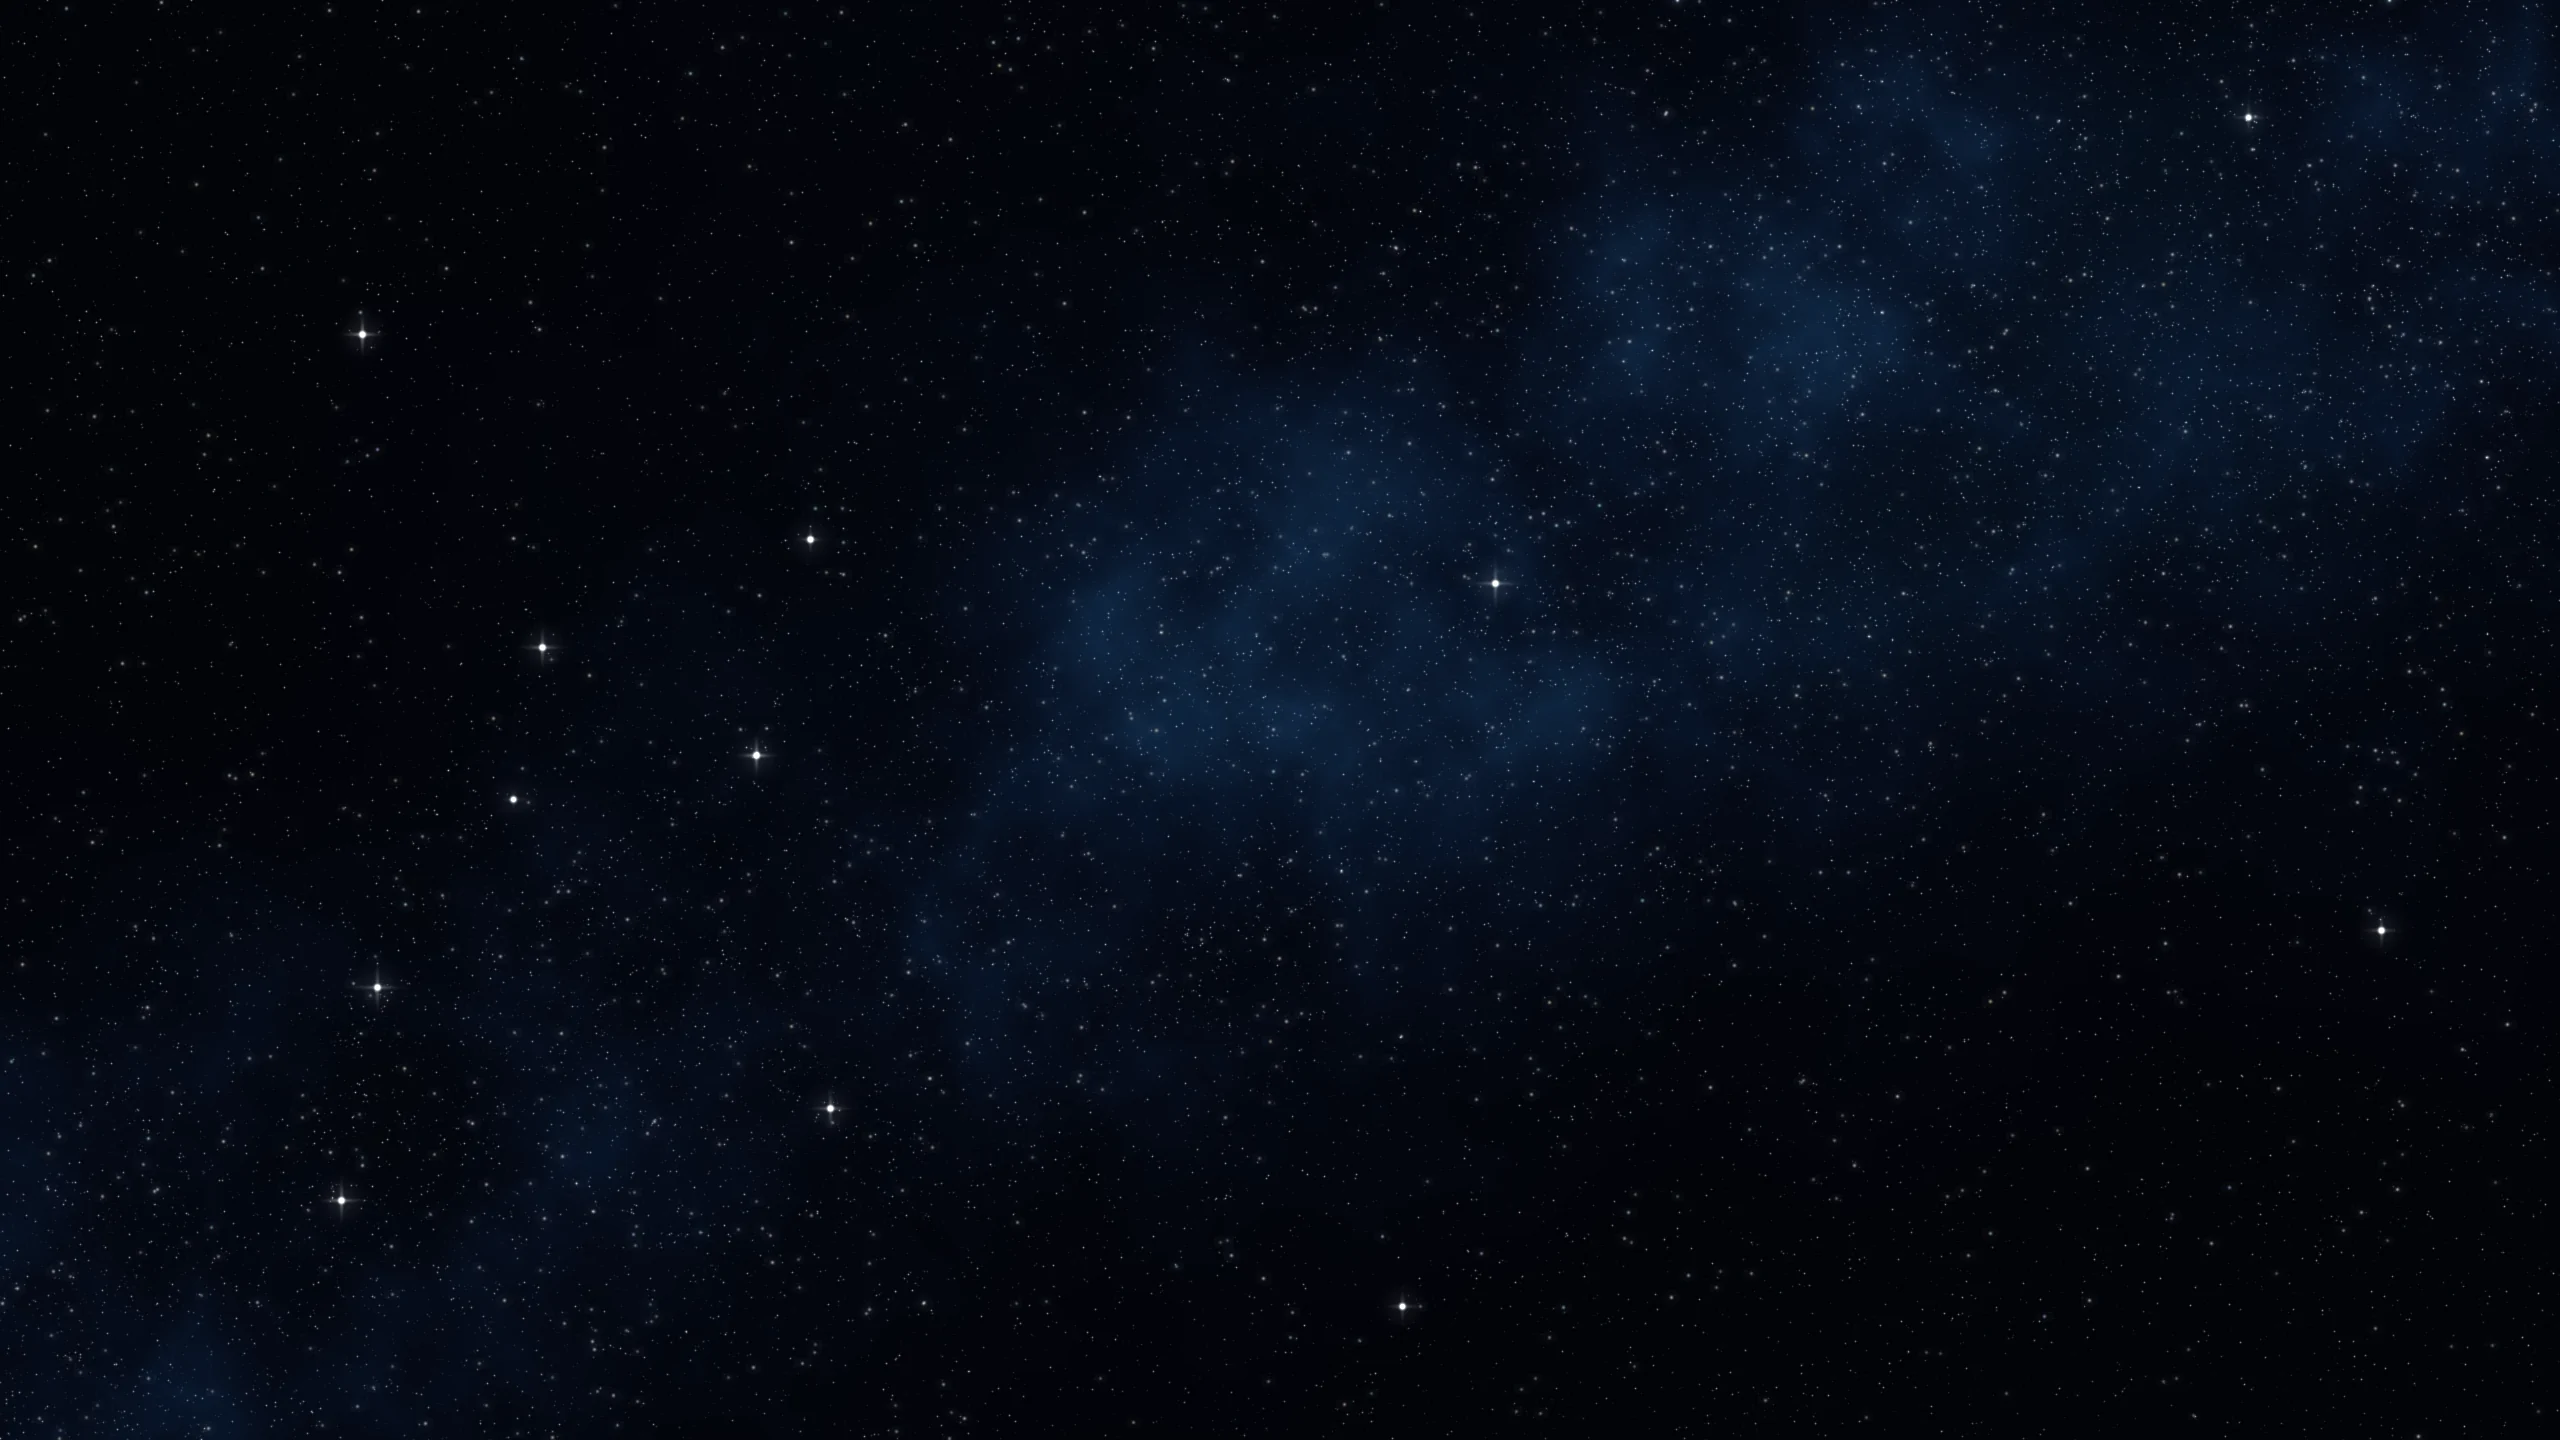
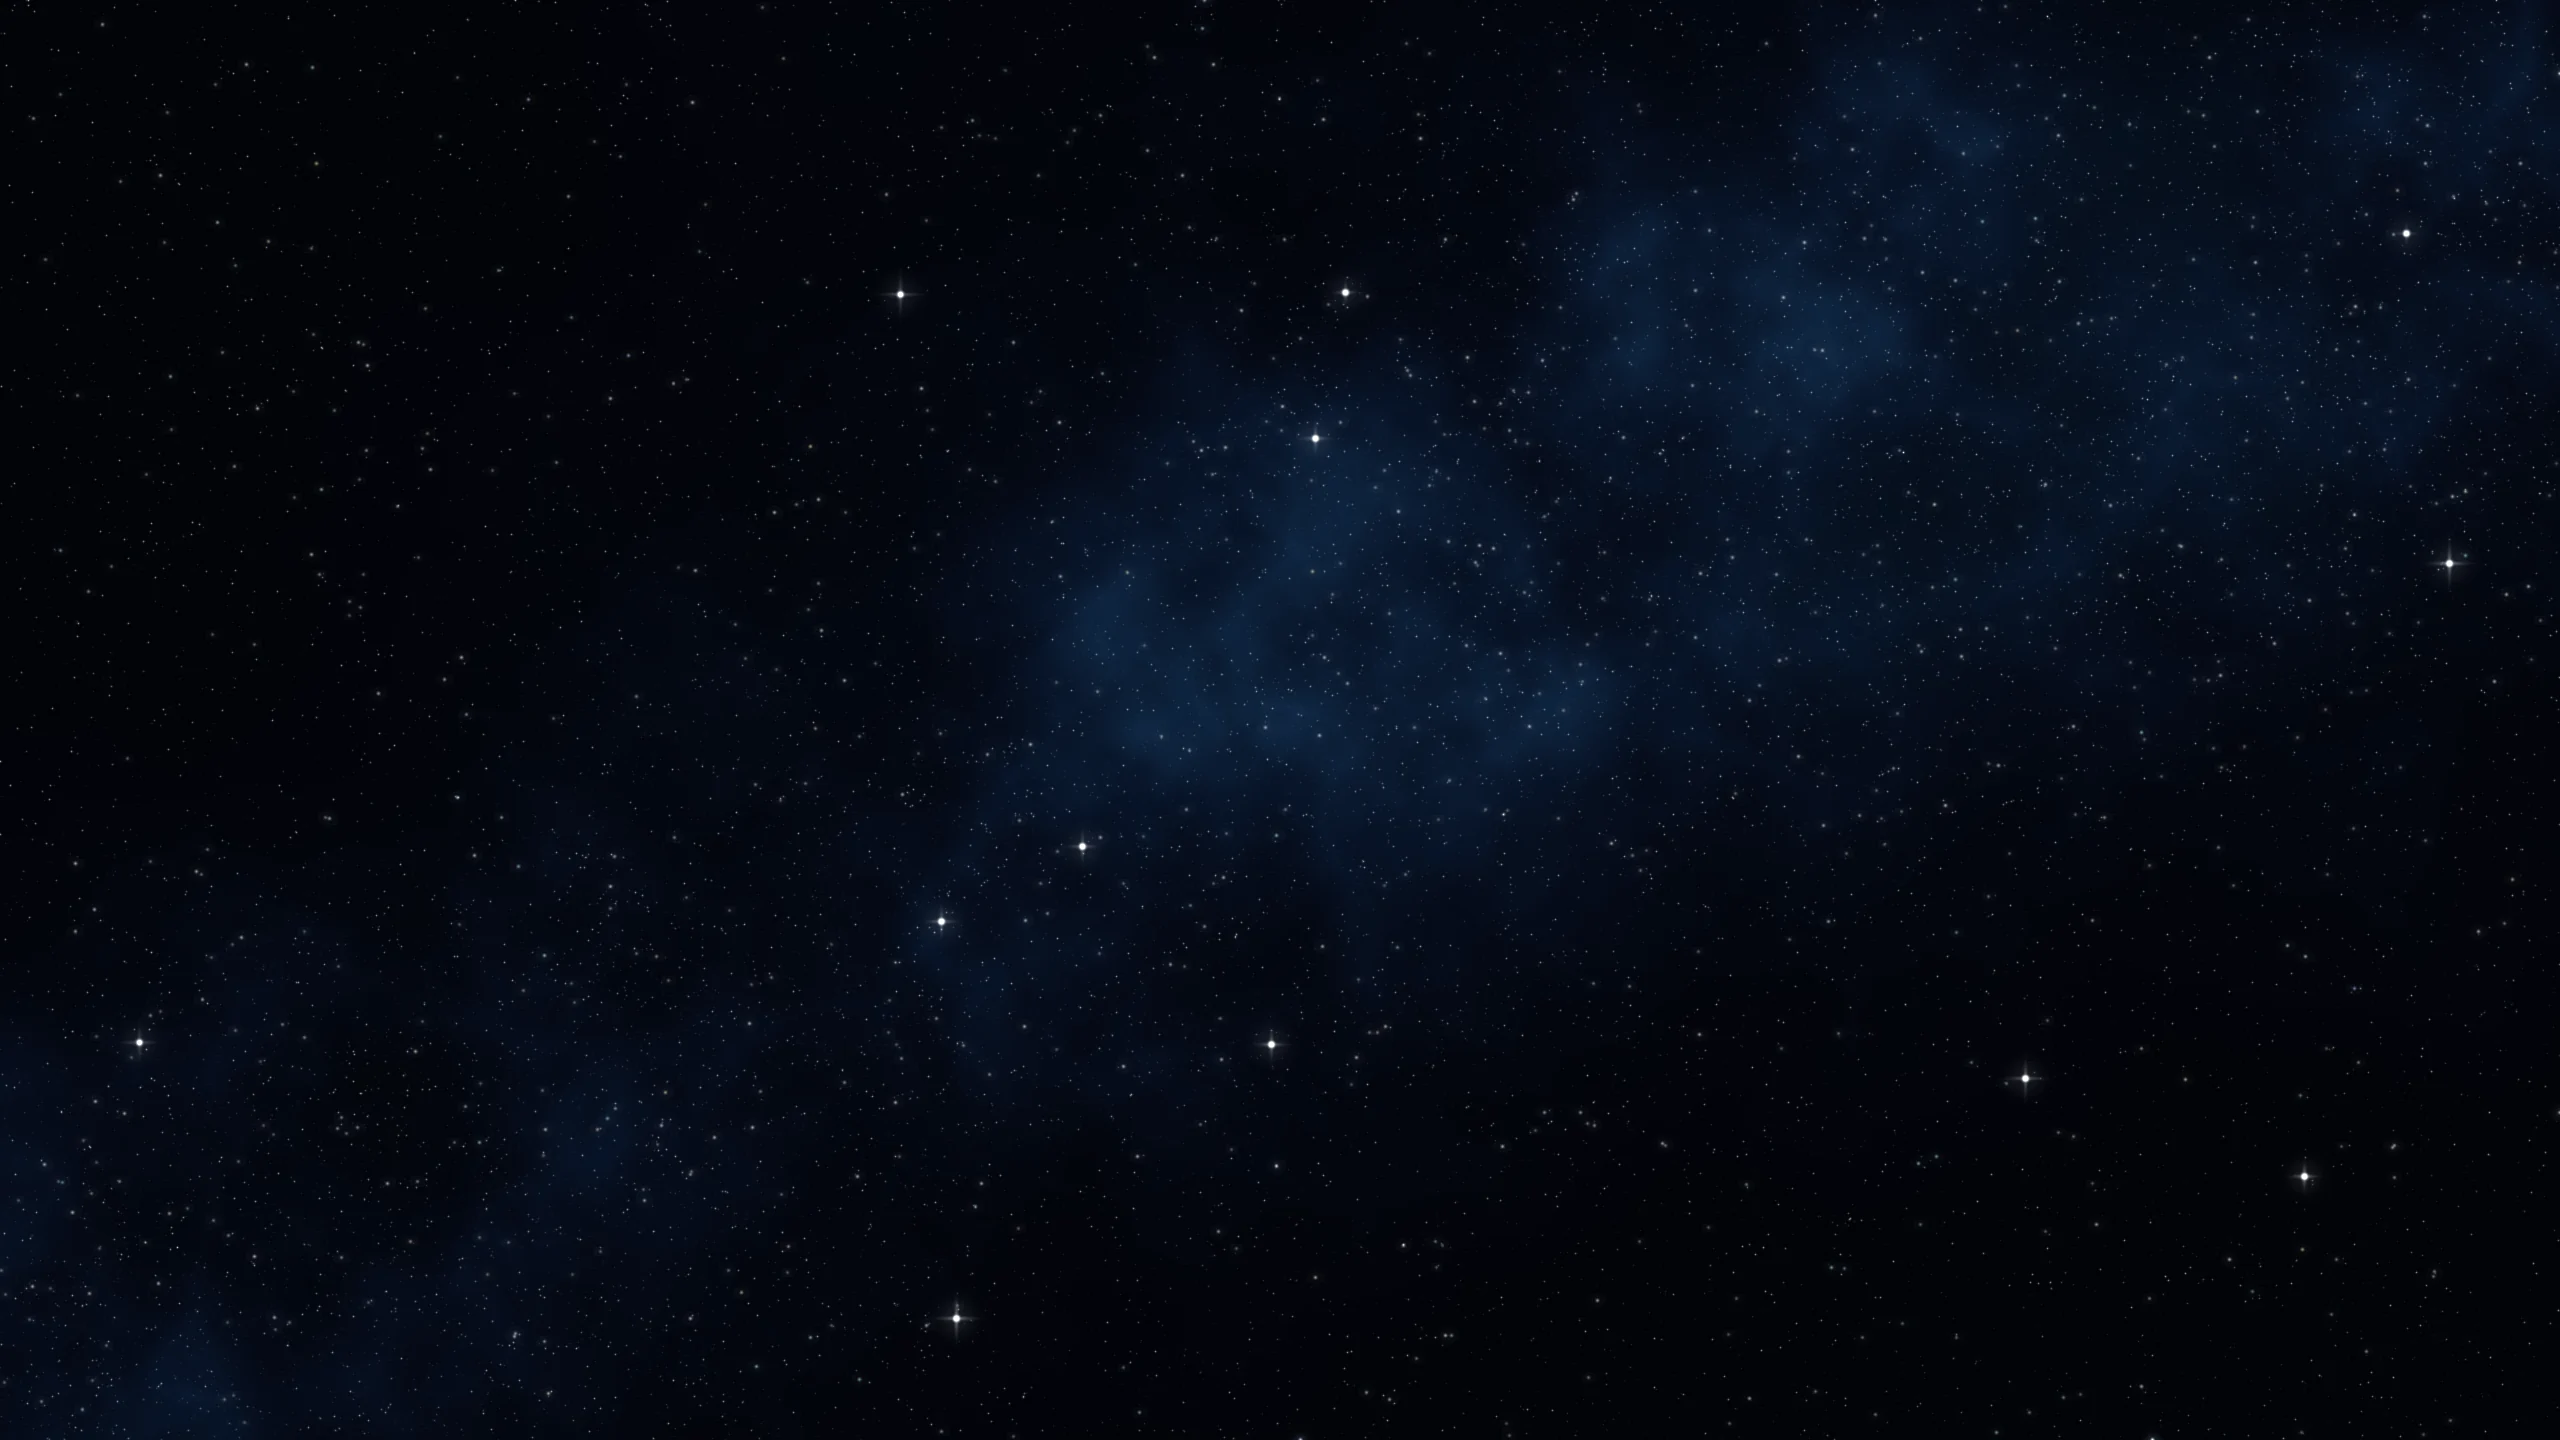
Company mock ?sky=flyer: the plate is now a quad drawn first behind the whole 3D scene, not a screen blend over the canvas (the stars shone through the rooms and the rock, the operator saw it); 30 % fewer stars in the plates and the sky. Looked at at 1600 x 900. Not pushed.
Effort: high

Changed region(s): [[0.9375, 0.375, 0.9688, 0.4062], [0.5625, 0.375, 0.5938, 0.4062], [0.125, 0.8125, 0.1562, 0.8438]]

diff --git a/outbox/company-live/u3d.js b/outbox/company-live/u3d.js
@@ -1765,6 +1765,21 @@ const UVLOOK = { exposure: 1.15, sat: 0.9 };
 // ?sky=flyer (the operator, 2026-11-01): the flyer's deep space, a plate behind the canvas that is screened over it
 // (skyflyer.css), so the scene's own sky goes near-black and leaves the plate its darkness and its stars
 const SKYF = /[?&]sky=flyer\b/.test(location.search);
+// The plate is a quad a long way in front of the camera that fills the view and is drawn first, behind everything (no depth
+// test, no depth write), cropped to the view like `background-size: cover`. A first try screened the whole canvas over a CSS
+// plate and the stars shone through the rooms and the rock ("jsou na povrchu ... jen naplacnul"); here the geometry covers them.
+function flyerPlate(scene, camera, file) {
+  const tex = new THREE.TextureLoader().load(file); tex.colorSpace = THREE.SRGBColorSpace;
+  const d = camera.far * 0.45, PA = 2560 / 1440;
+  const m = new THREE.Mesh(new THREE.PlaneGeometry(1, 1), new THREE.MeshBasicMaterial({ map: tex, depthTest: false, depthWrite: false, fog: false, toneMapped: false }));
+  m.renderOrder = -1000; m.frustumCulled = false; m.position.set(0, 0, -d);
+  m.onBeforeRender = (r, s, cam) => {
+    const h = 2 * d * Math.tan(THREE.MathUtils.degToRad(cam.fov / 2)), a = cam.aspect;
+    m.scale.set(h * a, h, 1);
+    if (a > PA) { tex.repeat.set(1, PA / a); tex.offset.set(0, (1 - PA / a) / 2); } else { tex.repeat.set(a / PA, 1); tex.offset.set((1 - a / PA) / 2, 0); }
+  };
+  camera.add(m); scene.add(camera);
+}
 const ACES_IN = new THREE.Matrix3().set(0.59719, 0.35458, 0.04823, 0.07600, 0.90834, 0.01566, 0.02840, 0.13383, 0.83777);
 const ACES_OUT = new THREE.Matrix3().set(1.60475, -0.53108, -0.07367, -0.10208, 1.10813, -0.00605, -0.00327, -0.07276, 1.07602);
 const ACES_IN_INV = ACES_IN.clone().invert(), ACES_OUT_INV = ACES_OUT.clone().invert();
@@ -1927,7 +1942,7 @@ function uvSky(AZ) {
     c.putImageData(img, 0, 0);
   });
   const sph = new THREE.Mesh(new THREE.SphereGeometry(D, 64, 32), new THREE.MeshBasicMaterial({ map: tex, side: THREE.BackSide, depthWrite: false, fog: false }));
-  sph.renderOrder = -20; sph.frustumCulled = false; g.add(sph);
+  sph.renderOrder = -20; sph.frustumCulled = false; if (!SKYF) g.add(sph);   // ?sky=flyer: the plate is the sky
   // a faint teal wisp or two inside the haze, his nebula's filaments
   [[-0.62, 0.62, 0.55, 7, 0.07], [-0.25, 0.85, 0.4, 13, 0.05], [-0.85, 0.2, 0.35, 29, 0.04]].forEach(([x, y, s, seed, op]) => {
     const m = new THREE.Mesh(G.plane, new THREE.MeshBasicMaterial({ map: filamentTex(seed), transparent: true, opacity: op, blending: THREE.AdditiveBlending, depthWrite: false, fog: false }));
@@ -1935,12 +1950,12 @@ function uvSky(AZ) {
   });
   // stars: about one to every 2,500 px of his sky, mostly faint, sharp; points are a pixel each
   const rnd = () => { const u = R() * 2 - 1, t = R() * Math.PI * 2, s = Math.sqrt(1 - u * u); return new THREE.Vector3(Math.cos(t) * s, u, Math.sin(t) * s); };
-  const N = 26000, pos = new Float32Array(N * 3), col = new Float32Array(N * 3), cc = new THREE.Color();
+  const N = SKYF ? 18200 : 26000, pos = new Float32Array(N * 3), col = new Float32Array(N * 3), cc = new THREE.Color();
   for (let i = 0; i < N; i++) { pos.set(rnd().multiplyScalar(D * 0.95).toArray(), i * 3); cc.set(R() < 0.15 ? 0xbfe9ff : 0xeef6ff).multiplyScalar(0.18 + R() * R() * 1.1); col.set([cc.r, cc.g, cc.b], i * 3); }
   const pg = new THREE.BufferGeometry(); pg.setAttribute('position', new THREE.BufferAttribute(pos, 3)); pg.setAttribute('color', new THREE.BufferAttribute(col, 3));
   const pts = new THREE.Points(pg, new THREE.PointsMaterial({ vertexColors: true, size: 1, sizeAttenuation: false, fog: false, depthWrite: false })); pts.frustumCulled = false; pts.renderOrder = -18; g.add(pts);
   // the brighter ones, two to three pixels with a soft edge
-  const B = 1400, px = D * 0.93 * 2 * tv / 1116, im = new THREE.InstancedMesh(G.plane, new THREE.MeshBasicMaterial({ map: starTex(), transparent: true, blending: THREE.AdditiveBlending, depthWrite: false, fog: false }), B), o = new THREE.Object3D();
+  const B = SKYF ? 980 : 1400, px = D * 0.93 * 2 * tv / 1116, im = new THREE.InstancedMesh(G.plane, new THREE.MeshBasicMaterial({ map: starTex(), transparent: true, blending: THREE.AdditiveBlending, depthWrite: false, fog: false }), B), o = new THREE.Object3D();
   for (let i = 0; i < B; i++) {
     o.position.copy(rnd().multiplyScalar(D * 0.93)); o.lookAt(0, 0, 0); o.scale.setScalar(px * (3 + R() * R() * 5)); o.updateMatrix(); im.setMatrixAt(i, o.matrix);
     im.setColorAt(i, cc.set(R() < 0.2 ? 0xc8eeff : 0xffffff).multiplyScalar(0.5 + R() * 0.9));
@@ -1958,6 +1973,7 @@ class Universe3D {
     this.scene = new THREE.Scene();
     this.scene.background = new THREE.Color(SKYF ? 0x000206 : 0x01080d);
     this.camera = new THREE.PerspectiveCamera(UVCAM.fov, 2, 0.5, 9000);
+    if (SKYF) flyerPlate(this.scene, this.camera, 'sky-flyer-uv.webp?v=2');
     // no antialias on the renderer itself: three.js resolves it through ONE quad shared by every renderer on the
     // page, so a second renderer (a preview) would take this canvas over. The pass multisamples instead.
     this.renderer = new THREE.WebGPURenderer({ antialias: false });
@@ -3514,7 +3530,7 @@ function spaceSky(office) {
   });
   const rnd = () => { const u = R() * 2 - 1, th = R() * Math.PI * 2, s = Math.sqrt(1 - u * u); return new THREE.Vector3(Math.cos(th) * s, u, Math.sin(th) * s); };
   // his sky is full of small white stars (about one per 2,400 pixels of sky), a few of them bright
-  const N = office ? 22000 : 4600, pos = new Float32Array(N * 3), col = new Float32Array(N * 3), cc = new THREE.Color();
+  const N = office ? (SKYF ? 15400 : 22000) : 4600, pos = new Float32Array(N * 3), col = new Float32Array(N * 3), cc = new THREE.Color();
   for (let i = 0; i < N; i++) {
     pos.set(rnd().multiplyScalar(360).toArray(), i * 3);
     if (office) cc.set(R() < 0.18 ? 0xb8e8ff : 0xf2f8ff).multiplyScalar(0.8 + R() * R() * 2.2);
@@ -3524,7 +3540,7 @@ function spaceSky(office) {
   const pg = new THREE.BufferGeometry(); pg.setAttribute('position', new THREE.BufferAttribute(pos, 3)); pg.setAttribute('color', new THREE.BufferAttribute(col, 3));
   pg.setAttribute('normal', new THREE.BufferAttribute(new Float32Array(N * 3).map((v, i) => (i % 3 === 1 ? 1 : 0)), 3));
   const pts = new THREE.Points(pg, new THREE.PointsMaterial({ vertexColors: true, size: 1, sizeAttenuation: false, fog: false, depthWrite: false })); pts.frustumCulled = false; g.add(pts);
-  const B = office ? 2600 : 360, im = new THREE.InstancedMesh(G.plane, new THREE.MeshBasicMaterial({ map: starTex(), transparent: true, blending: THREE.AdditiveBlending, depthWrite: false, fog: false }), B), o = new THREE.Object3D();
+  const B = office ? (SKYF ? 1820 : 2600) : 360, im = new THREE.InstancedMesh(G.plane, new THREE.MeshBasicMaterial({ map: starTex(), transparent: true, blending: THREE.AdditiveBlending, depthWrite: false, fog: false }), B), o = new THREE.Object3D();
   for (let i = 0; i < B; i++) {
     // at the office's home distance a sky unit is about 0.7 px: his stars are 1 to 3 px points with a soft halo
     o.position.copy(rnd().multiplyScalar(350)); o.lookAt(0, 0, 0); o.scale.setScalar(office ? 0.7 + R() * R() * 1.1 : 1.0 + R() * R() * 3.1); o.updateMatrix(); im.setMatrixAt(i, o.matrix);
@@ -4575,6 +4591,7 @@ class Office3D {
     this.mouse = new THREE.Vector2(); this.ray = new THREE.Raycaster();
     this.scene = new THREE.Scene(); this.scene.background = new THREE.Color(SKYF ? 0x010308 : LOOK.sky); this.scene.fog = new THREE.Fog(SKYF ? 0x010308 : LOOK.sky, 180, 460);
     this.camera = new THREE.PerspectiveCamera(CAM.fov, 2, 0.5, 900);
+    if (SKYF) flyerPlate(this.scene, this.camera, 'sky-flyer-hq.webp?v=2');
     this.renderer = new THREE.WebGPURenderer({ antialias: false });
     this.renderer.setPixelRatio(Math.min(window.devicePixelRatio || 1, 2));
     this.renderer.toneMapping = THREE.ACESFilmicToneMapping; this.renderer.toneMappingExposure = 1.0;

diff --git a/outbox/company-live/index.html b/outbox/company-live/index.html
@@ -11,10 +11,7 @@
 <!-- the Universe's name plates: his picture's squared, semi-condensed caps -->
 <link href="https://fonts.googleapis.com/css2?family=Rajdhani:wght@600;700&display=swap" rel="stylesheet">
 <link rel="stylesheet" href="style.css?v=20261024show2">
-<link rel="stylesheet" href="uv.css?v=20261024rank3-pz1">
-<link rel="stylesheet" href="skyflyer.css?v=20261101a">
-<script>if (/[?&]sky=flyer\b/.test(location.search)) document.documentElement.classList.add('sky-flyer');</script>
-<link rel="stylesheet" href="uvpanel.css?v=20261024rs">
+<link rel="stylesheet" href="uv.css?v=20261024rank3-pz1"><link rel="stylesheet" href="uvpanel.css?v=20261024rs">
 <!-- the 3D engine for the Universe and the office: three.js with its WebGPU renderer (WebGL2 where WebGPU is missing) -->
 <script type="importmap">{ "imports": {
   "three": "https://cdn.jsdelivr.net/npm/three@0.172.0/build/three.webgpu.js",
@@ -263,7 +260,7 @@
 <script src="universe.js?v=20261024icon2"></script>
 <script src="cards.js?v=20261022panel11"></script>
 <script src="app.js?v=20261024show1"></script>
-<script type="module" src="u3d.js?v=20261101sky"></script>
+<script type="module" src="u3d.js?v=20261101sky3"></script>
 <!-- the seven stations a company can pick (stations.js puts its builders into u3d.js's table and renames CO.SKINS) -->
 <script type="module" src="stations.js?v=20261022panel11-st2"></script>
 <script type="module" src="stations-a.js?v=1"></script>

diff --git a/outbox/company-live/skyplate.py b/outbox/company-live/skyplate.py
@@ -1,8 +1,8 @@
 """The flyer's deep space as two backdrops for the mock's Universe and Headquarters (?sky=flyer).
 
 The operator, 2026-11-01: the flyer's background is "fakt husto ... vyraznejsi tmavsi", how would it look live. The flyer was the
-Universe frame screened over nebula.py's plate; here the same plate sits behind the 3D canvas and the canvas is screened over it
-(skyflyer.css), so what the flyer did in Python the page does itself. 2560 x 1440 webp, the same every time for a seed.
+Universe frame screened over nebula.py's plate; here the same plate is a quad drawn first, behind everything in the 3D scene
+(u3d.js flyerPlate), so rooms and rock cover it. 2560 x 1440 webp, the same every time for a seed.
 
     python outbox/company-live/skyplate.py
 """
@@ -19,7 +19,7 @@ import nebula  # noqa: E402
 nebula.W, nebula.H = 2560, 1440
 
 for name, seed, strength in (('uv', 7, 0.5), ('hq', 11, 0.5)):
-    rgb = nebula.make(seed=seed, strength=strength)
+    rgb = nebula.make(seed=seed, strength=strength, stars=0.7)   # 30 % fewer stars (the operator, 2026-11-01)
     out = os.path.join(HERE, 'sky-flyer-%s.webp' % name)
     Image.fromarray(np.clip(rgb, 0, 255).astype(np.uint8), 'RGB').save(out, quality=86, method=6)
     print(out, os.path.getsize(out) // 1024, 'KB')

diff --git a/outbox/revenue-share-flyer/nebula.py b/outbox/revenue-share-flyer/nebula.py
@@ -10,7 +10,7 @@ from PIL import Image, ImageFilter
 W, H = 2160, 2700
 
 
-def make(seed=7, strength=1.0):
+def make(seed=7, strength=1.0, stars=1.0):
     """The nebula as an RGB float array (0..255), H x W. `strength` scales the cloud's density: below 1 the space is
     darker and the purple only a trace ("vic ten deep vesmir tmavsi jen s minimem te fialove", 2026-10-23)."""
     rng = np.random.default_rng(seed)
@@ -77,8 +77,8 @@ def make(seed=7, strength=1.0):
             out[..., ch] = np.asarray(im, np.float32) / 255
         return out
 
-    faint = scatter(26000, 0.06, 0.55, 3.0)
-    clear = scatter(1100, 0.5, 1.0, 1.5)
+    faint = scatter(int(26000 * stars), 0.06, 0.55, 3.0)     # `stars` scales how many (1.0 is the flyer's)
+    clear = scatter(int(1100 * stars), 0.5, 1.0, 1.5)
     light = blur(faint, 0.75) * 3.0 + blur(clear, 1.1) * 4.5 + blur(clear, 5) * 5.0
     spikes = np.zeros((H, W), np.float32)
     for _ in range(12):
